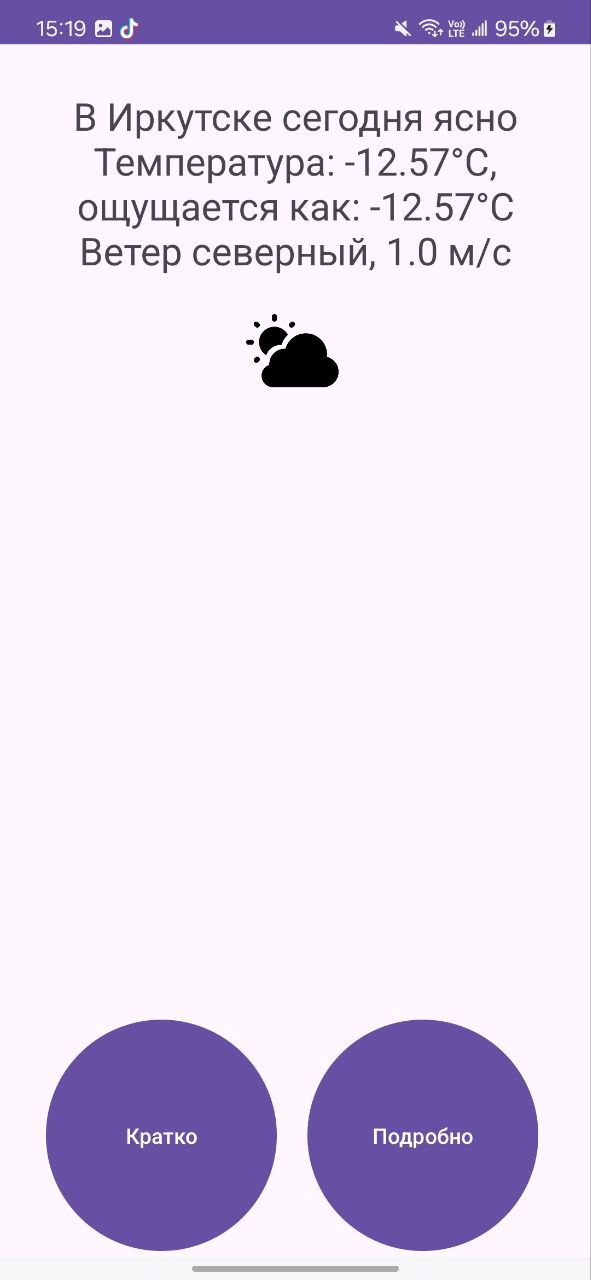
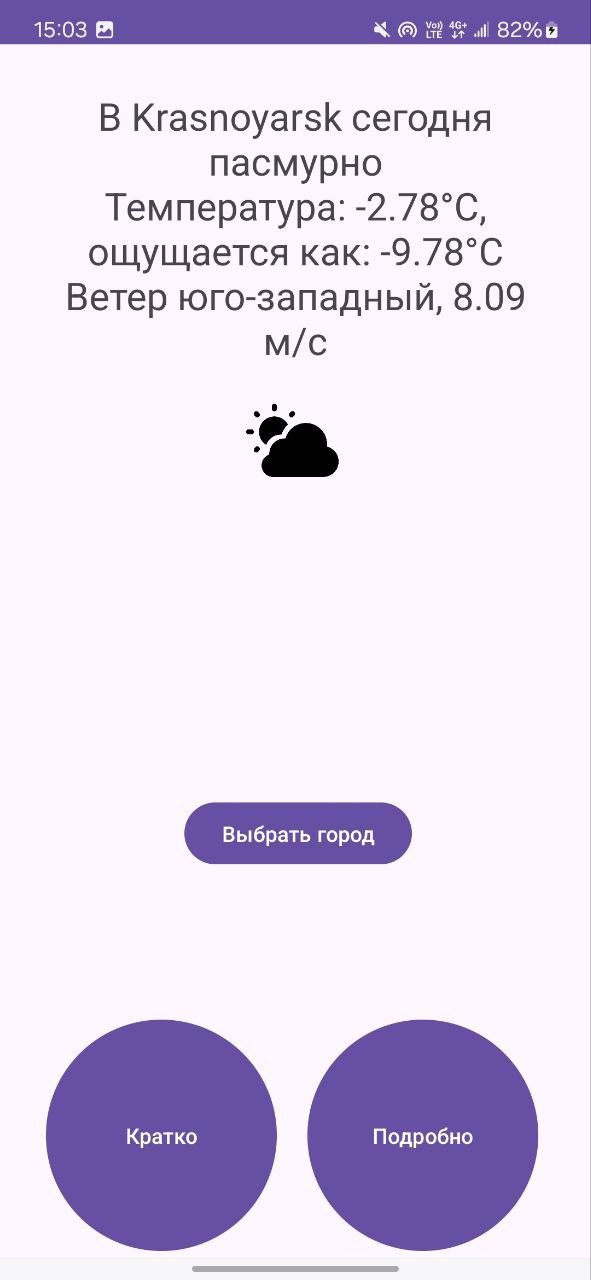
Updated hw. Added alert dialog

diff --git a/Fragment/app/src/main/java/com/example/fragment/DetailedWeatherFragment.kt b/Fragment/app/src/main/java/com/example/fragment/DetailedWeatherFragment.kt
@@ -1,13 +1,18 @@
 package com.example.fragment
 
+import android.app.AlertDialog
+import android.content.DialogInterface
 import android.os.Bundle
 import android.util.Log
 import androidx.fragment.app.Fragment
 import android.view.LayoutInflater
 import android.view.View
 import android.view.ViewGroup
+import android.widget.Button
 import android.widget.ImageView
 import android.widget.TextView
+import android.widget.Toast
+import androidx.fragment.app.FragmentManager
 import androidx.lifecycle.lifecycleScope
 import com.google.gson.Gson
 import com.google.gson.JsonParser
@@ -34,6 +39,7 @@ private const val ARG_PARAM2 = "param2"
  */
 class DetailedWeatherFragment : Fragment() {
     // TODO: Rename and change types of parameters
+    private var cities = arrayOf("Irkutsk", "Moscow", "Krasnoyarsk", "Krasnodar")
     private var param1: String? = null
     private var param2: String? = null
     private var weather_text: Weather = Weather()
@@ -58,33 +64,27 @@ class DetailedWeatherFragment : Fragment() {
         val view: View = inflater!!.inflate(R.layout.fragment_detailed_weather, container, false)
         val weatherInfoTextView = view.findViewById<TextView>(R.id.weather_info)
         val weatherImageView = view.findViewById<ImageView>(R.id.weather_image)
+        val changeCityButton = view.findViewById<Button>(R.id.change_city_button)
+        var choice = 0
 
-        lifecycleScope.launch {
-            val weather = withContext(Dispatchers.IO) {
-                getWeather(key, lang)
-            }
+        changeCityButton.setOnClickListener(View.OnClickListener {
+            AlertDialog.Builder(view.context).
+            setSingleChoiceItems( arrayOf("Irkutsk", "Moscow", "Krasnoyarsk", "Krasnodar"), 0, {
+                    dialog, which -> choice = which
+            }).
+            setPositiveButton("Ok", {dialog, which ->
+                set_weather_data(weatherInfoTextView, weatherImageView, cities[choice])
+            }).
+            create().show()
+        })
 
-            weatherInfoTextView.text = buildString {
-                append("В Иркутске сегодня ${weather.weather.get(0).description}\n")
-                append("Температура: ${weather.main.temp}°C, ощущается как: ${weather.main.feels_like}°C\n")
-                append("Ветер ${getWindDirection(weather.wind.deg.toDouble()).toLowerCase()}, ${weather.wind.speed} м/с")
-            }
-            val weather_type = weather.weather.get(0).main
-            weatherImageView.setImageResource(when {
-                weather_type.toLowerCase() == "cнег" -> R.drawable.snow
-                weather_type.toLowerCase() == "гроза" -> R.drawable.thunder
-                weather_type.toLowerCase() == "ветрено" -> R.drawable.windy
-                weather_type.toLowerCase() == "дождь" -> R.drawable.rainy
-                else -> R.drawable.clouds_and_sun
-            })
-
-        }
+        set_weather_data(weatherInfoTextView, weatherImageView, "Irkutsk")
 
         return view
     }
 
-    suspend fun getWeather(key: String, lang: String): Weather {
-        val API_URL = "https://api.openweathermap.org/data/2.5/weather?q=Irkutsk&lang=ru&appid=${key}&units=metric"
+    suspend fun getWeather(key: String, lang: String, city: String): Weather {
+        val API_URL = "https://api.openweathermap.org/data/2.5/weather?q=$city&lang=ru&appid=${key}&units=metric"
 
         val stream = URL(API_URL).getContent() as InputStream
         // JSON отдаётся одной строкой,
@@ -109,6 +109,29 @@ class DetailedWeatherFragment : Fragment() {
         }
     }
 
+    fun set_weather_data(weatherInfoTextView: TextView, weatherImageView: ImageView, city: String){
+        lifecycleScope.launch {
+            val weather = withContext(Dispatchers.IO) {
+                getWeather(key, lang, city)
+            }
+
+            weatherInfoTextView.text = buildString {
+                append("В $city сегодня ${weather.weather.get(0).description}\n")
+                append("Температура: ${weather.main.temp}°C, ощущается как: ${weather.main.feels_like}°C\n")
+                append("Ветер ${getWindDirection(weather.wind.deg.toDouble()).toLowerCase()}, ${weather.wind.speed} м/с")
+            }
+            val weather_type = weather.weather.get(0).main
+            weatherImageView.setImageResource(when {
+                weather_type.toLowerCase() == "cнег" -> R.drawable.snow
+                weather_type.toLowerCase() == "гроза" -> R.drawable.thunder
+                weather_type.toLowerCase() == "ветрено" -> R.drawable.windy
+                weather_type.toLowerCase() == "дождь" -> R.drawable.rainy
+                else -> R.drawable.clouds_and_sun
+            })
+
+        }
+    }
+
     companion object {
         /**
          * Use this factory method to create a new instance of
@@ -128,4 +151,18 @@ class DetailedWeatherFragment : Fragment() {
                 }
             }
     }
+
+//    fun change_city(view: View) {
+//        val myDialog = MyDialog(view.context)
+//        fragmentManager?.let { myDialog.show(it, "city_choice") }
+//    }
+//
+//    override fun onClick(dialog: DialogInterface?, which: Int) {
+//        val textView =
+//        when (which){
+//            DialogInterface.BUTTON_POSITIVE -> textView.setText("Вы согласились!");
+//        }
+//
+//    }
+
 }

diff --git a/Fragment/README.md b/Fragment/README.md
@@ -8,3 +8,6 @@
 
 ## 3:
 ![image](./screen3.jpg)
+
+## 4:
+![image](./screen4.jpg)
